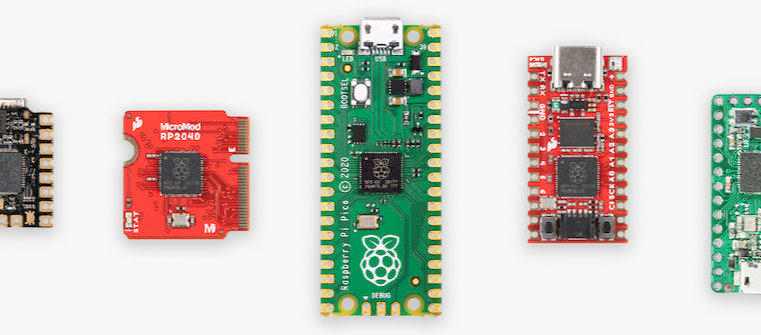
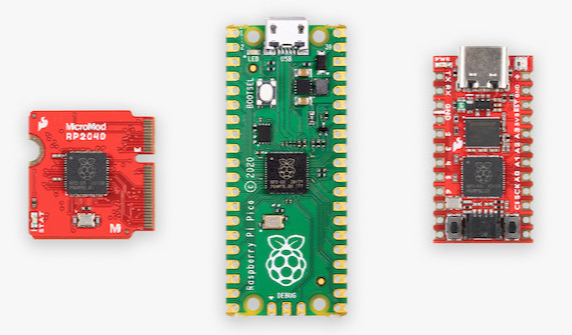
Added images to post & collected resources

diff --git a/_posts/2021-03-15-Getting-started-with-the-pi-pico.md b/_posts/2021-03-15-Getting-started-with-the-pi-pico.md
@@ -29,8 +29,8 @@ comments: true
 ## Introduction
 
 <div style="text-align: center; margin: 0px auto;">
-    <a href="{{ '/img/2021-03-15-getting-started-with-the-pi-pico/logo.jpg' | prepend: site.baseurl }}" data-lightbox="ui" data-title="Logo">
-        <img alt="Pi Pico Blueprint" src="{{ '/img/2021-03-15-getting-started-with-the-pi-pico/logo.jpg' | prepend: site.baseurl }}" class="image fit" style="margin:0px auto; width: 100%; display: inline-block;">
+    <a href="{{ '/img/2021-03-15-getting-started-with-the-pi-pico/pi-pico.jpg' | prepend: site.baseurl }}" data-lightbox="ui" data-title="Raspberry Pi Pico">
+        <img alt="Pi Pico Blueprint" src="{{ '/img/2021-03-15-getting-started-with-the-pi-pico/pi-pico.jpg' | prepend: site.baseurl }}" class="image fit" style="margin:0px auto; width: 60%; display: inline-block;">
     </a>
 </div>
 
@@ -47,7 +47,11 @@ It's cheap, it's powerful, and in this blog post we'll be exploring what it has 
 Like I said in the introduction, the regular Raspberry Pi is a single board computer, as in an actual computer which can run a fully fledged operating system.
 It also has interfacing options like a display and camera port, along side ethernet and USB ports as well as the 40 GPIO pins.
 
-TODO: PI vs PICO picture
+<div style="text-align: center; margin: 0px auto;">
+    <a href="{{ '/img/2021-03-15-getting-started-with-the-pi-pico/pi-vs-pico.jpg' | prepend: site.baseurl }}" data-lightbox="ui" data-title="Raspberry Pi Model 4 vs Raspberry Pi Pico">
+        <img alt="Pi Pico Blueprint" src="{{ '/img/2021-03-15-getting-started-with-the-pi-pico/pi-vs-pico.jpg' | prepend: site.baseurl }}" class="image fit" style="margin:0px auto; width: 100%; display: inline-block;">
+    </a>
+</div>
 
 As you can see in the pictures, the Raspberry Pi looks like a tiny computer and the Pico looks like a much simpler board, because it also is.
 Both devices serve different purposes but do have some overlap.
@@ -57,7 +61,11 @@ While they both have GPIO pins the ones on the Pi Pico are much more capable tha
 
 ## Getting to know the board
 
-TODO: PICO pinout picture
+<div style="text-align: center; margin: 0px auto;">
+    <a href="{{ '/img/2021-03-15-getting-started-with-the-pi-pico/pi-pico-pinout.svg' | prepend: site.baseurl }}" data-lightbox="ui" data-title="GPIO layout">
+        <img alt="Pi Pico Blueprint" src="{{ '/img/2021-03-15-getting-started-with-the-pi-pico/pi-pico-pinout.svg' | prepend: site.baseurl }}" class="image fit" style="margin:0px auto; width: 100%; display: inline-block;">
+    </a>
+</div>
 
 The main technical specifications of the Pi Pico are:
 
@@ -166,16 +174,25 @@ First of all we need to prepare the Pico to accept and run MicroPython files:
 The easiest way to do MicroPython development for the Pi Pico is by using the Thonny IDE.
 Thonny is a simple code editor that can directly save your code to the Pico and also provides an easy way to access the REPL.
 
-Setting up Thonny is very easy, just [download](https://thonny.org/) the binary for your operating system, install and start it.
+Setting up Thonny is very easy, just [download](https://thonny.org/){:target="_blank" rel="noopener noreferrer"} the binary for your operating system, install and start it.
 Only one more step is required to set it up for use with the Pi Pico.
 Head into the preferences, select the `interpreter` tab and from the dropdown select the option `MicroPython (Raspberry Pi Pico)`.
 Select the correct port from the dropdown.
 After this Thonny is ready to be used!
 
+<div style="text-align: center; margin: 0px auto;">
+    <a href="{{ '/img/2021-03-15-getting-started-with-the-pi-pico/thonny-interpreter.png' | prepend: site.baseurl }}" data-lightbox="ui" data-title="Thonny select interpreter">
+        <img alt="Pi Pico Blueprint" src="{{ '/img/2021-03-15-getting-started-with-the-pi-pico/thonny-interpreter.png' | prepend: site.baseurl }}" class="image fit" style="margin:0px auto; width: 45%; display: inline-block;">
+    </a>
+    <a href="{{ '/img/2021-03-15-getting-started-with-the-pi-pico/thonny-ports.png' | prepend: site.baseurl }}" data-lightbox="ui" data-title="Thonny select port">
+        <img alt="Pi Pico Blueprint" src="{{ '/img/2021-03-15-getting-started-with-the-pi-pico/thonny-ports.png' | prepend: site.baseurl }}" class="image fit" style="margin:0px auto; width: 45%; display: inline-block;">
+    </a>
+</div>
+
 Another option for development is using the great PyCharm IDE.
 While I view Thonny to be a glorified text editor, PyCharm (from JetBrains) is a fully fledged Python IDE, for our purposes the community edition will do just fine.
 The setup is a bit more involved and has some caveats, but it is certainly workable.
-[Download](https://www.jetbrains.com/pycharm/download/) and install the PyCharm Community Edition, once done, open it up and in the welcome screen select the plugin option.
+[Download](https://www.jetbrains.com/pycharm/download/){:target="_blank" rel="noopener noreferrer"} and install the PyCharm Community Edition, once done, open it up and in the welcome screen select the plugin option.
 In here search for `micropython` and install the MicroPython plugin by JetBrains, this will add support for flashing the device from within the IDE.
 Now we can create a new project and write some code.
 To upload the code to the Pico we need to perform some more changes and enable the MicroPython support for the newly created project.
@@ -191,6 +208,27 @@ Make sure you do not have the REPL open in the PyCharm terminal window, in contr
 If you have copied too many files or simply want to wipe the device, from the menu select: `tools/MicroPython/Remove All Files from MicroPython Device`.
 To open the REPL and directly interact with the Pico select the `tools/MicroPython/MicroPython REPL`, this will open up a REPL in a terminal window.
  
+<div style="text-align: center; margin: 0px auto;">
+    <a href="{{ '/img/2021-03-15-getting-started-with-the-pi-pico/pycharm-micropython-plugin.png' | prepend: site.baseurl }}" data-lightbox="ui" data-title="Install the MicroPython plugin">
+        <img alt="Pi Pico Blueprint" src="{{ '/img/2021-03-15-getting-started-with-the-pi-pico/pycharm-micropython-plugin.png' | prepend: site.baseurl }}" class="image fit" style="margin:0px auto; width: 15%; display: inline-block;">
+    </a>
+    <a href="{{ '/img/2021-03-15-getting-started-with-the-pi-pico/pycharm-micropython-setup.png' | prepend: site.baseurl }}" data-lightbox="ui" data-title="MicroPython project settings">
+        <img alt="Pi Pico Blueprint" src="{{ '/img/2021-03-15-getting-started-with-the-pi-pico/pycharm-micropython-setup.png' | prepend: site.baseurl }}" class="image fit" style="margin:0px auto; width: 15%; display: inline-block;">
+    </a>
+    <a href="{{ '/img/2021-03-15-getting-started-with-the-pi-pico/pycharm-flash-to-device.png' | prepend: site.baseurl }}" data-lightbox="ui" data-title="Flash main file to device">
+        <img alt="Pi Pico Blueprint" src="{{ '/img/2021-03-15-getting-started-with-the-pi-pico/pycharm-flash-to-device.png' | prepend: site.baseurl }}" class="image fit" style="margin:0px auto; width: 15%; display: inline-block;">
+    </a>
+    <a href="{{ '/img/2021-03-15-getting-started-with-the-pi-pico/pycharm-run-flash.png' | prepend: site.baseurl }}" data-lightbox="ui" data-title="Flash other files to device">
+        <img alt="Pi Pico Blueprint" src="{{ '/img/2021-03-15-getting-started-with-the-pi-pico/pycharm-run-flash.png' | prepend: site.baseurl }}" class="image fit" style="margin:0px auto; width: 15%; display: inline-block;">
+    </a>
+    <a href="{{ '/img/2021-03-15-getting-started-with-the-pi-pico/pycharm-run-flash-progress.png' | prepend: site.baseurl }}" data-lightbox="ui" data-title="Flashing progress">
+        <img alt="Pi Pico Blueprint" src="{{ '/img/2021-03-15-getting-started-with-the-pi-pico/pycharm-run-flash-progress.png' | prepend: site.baseurl }}" class="image fit" style="margin:0px auto; width: 15%; display: inline-block;">
+    </a>
+    <a href="{{ '/img/2021-03-15-getting-started-with-the-pi-pico/pycharm-tools.png' | prepend: site.baseurl }}" data-lightbox="ui" data-title="REPL and device wipe">
+        <img alt="Pi Pico Blueprint" src="{{ '/img/2021-03-15-getting-started-with-the-pi-pico/pycharm-tools.png' | prepend: site.baseurl }}" class="image fit" style="margin:0px auto; width: 15%; display: inline-block;">
+    </a>
+</div>
+
 ### Code example
 
 The basic code for a LED blink example is listed below.
@@ -211,7 +249,7 @@ while True:
 
 This code does the same as the C++ code mentioned above.
 It however is far more readable.
-The [MicroPython documentation](https://docs.micropython.org/en/latest/) has examples and information on what is available and what is not.
+The [MicroPython documentation](https://docs.micropython.org/en/latest/){:target="_blank" rel="noopener noreferrer"} has examples and information on what is available and what is not.
 Please be reminded that MicroPython support for the Pi Pico is still very new and some APIs may contain bugs, not work at all or even not be available yet.
 
 ## CircuitPython development
@@ -232,7 +270,7 @@ First of all we need to prepare the Pico to accept and run CircuitPython files:
 
 CircuitPython can also be developed using Thonny, you however need to open the Thonny preferences once more, select the interpreter tab and select the `CircuitPython (generic)` option.
 Using PyCharm for CircuitPython can be done, however I've not had many success to flash the files to the Pico device, so for CircuitPython the best option remains Thonny.
-Adafruit recommends using the [Mu](https://learn.adafruit.com/welcome-to-circuitpython/installing-mu-editor) IDE for CircuitPython development, however I could never get it to work on my Big Sur installation.
+Adafruit recommends using the [Mu](https://learn.adafruit.com/welcome-to-circuitpython/installing-mu-editor){:target="_blank" rel="noopener noreferrer"} IDE for CircuitPython development, however I could never get it to work on my Big Sur installation.
 
 Developing CircuitPython does not really differ from MicroPython except for two things:
 
@@ -240,7 +278,7 @@ Developing CircuitPython does not really differ from MicroPython except for two 
 - Project structure
   - No main.py but a boot.py and code.py file to do bootstrapping and have a main entry point for code execution
 
-Further in depth information on how to get started with CircuitPython development can be found on [their excellent website](https://learn.adafruit.com/welcome-to-circuitpython/overview) as we will be focussing on MicroPython in future projects.
+Further in depth information on how to get started with CircuitPython development can be found on [their excellent website](https://learn.adafruit.com/welcome-to-circuitpython/overview){:target="_blank" rel="noopener noreferrer"} as we will be focussing on MicroPython in future projects.
 
 ### Code example
 
@@ -264,7 +302,7 @@ while True:
 
 Again this code does the same as the C++ code mentioned above.
 It is also more readable, but differs slightly from the MicroPython flavour of Python.
-The [CircuitPython documentation](https://circuitpython.readthedocs.io/en/6.1.x/README.html) has examples and information on what is available and what is not.
+The [CircuitPython documentation](https://circuitpython.readthedocs.io/en/6.1.x/README.html){:target="_blank" rel="noopener noreferrer"} has examples and information on what is available and what is not.
 Please be reminded that CircuitPython support for the Pi Pico is still very new and some APIs may contain bugs, not work at all or even not be available yet.
 
 Another thing to note is that the CircuitPython implementation has some additional pros and cons:
@@ -282,4 +320,16 @@ It allows for faster prototyping without having to deal with C/C++ per se.
 
 ## Resources
 
-[Pi Pico Getting started](https://www.raspberrypi.org/documentation/rp2040/getting-started/#getting-started-with-micropython){:target="_blank" rel="noopener noreferrer"}
+- [Pi Pico Getting started](https://www.raspberrypi.org/documentation/rp2040/getting-started/#getting-started-with-micropython){:target="_blank" rel="noopener noreferrer"}
+- [General C/C++ SDK documentation](https://datasheets.raspberrypi.org/pico/raspberry-pi-pico-c-sdk.pdf){:target="_blank" rel="noopener noreferrer"}
+- [C++ setup Linux](https://raw.githubusercontent.com/raspberrypi/pico-setup/master/pico_setup.sh){:target="_blank" rel="noopener noreferrer"}
+- [C++ setup Mac](https://smittytone.wordpress.com/2021/02/02/program-raspberry-pi-pico-c-mac/){:target="_blank" rel="noopener noreferrer"}
+- [C++ setup Windows](https://github.com/ndabas/pico-setup-windows){:target="_blank" rel="noopener noreferrer"}
+- [Getting started with MicroPython](https://www.raspberrypi.org/documentation/rp2040/getting-started/#getting-started-with-micropython){:target="_blank" rel="noopener noreferrer"}
+- [Thonny IDE](https://thonny.org/){:target="_blank" rel="noopener noreferrer"}
+- [PyCharm](https://www.jetbrains.com/pycharm/download/){:target="_blank" rel="noopener noreferrer"}
+- [MicroPython documentation](https://docs.micropython.org/en/latest/){:target="_blank" rel="noopener noreferrer"}
+- [CircuitPython download](https://circuitpython.org/board/raspberry_pi_pico/){:target="_blank" rel="noopener noreferrer"}
+- [Mu IDE](https://learn.adafruit.com/welcome-to-circuitpython/installing-mu-editor){:target="_blank" rel="noopener noreferrer"}
+- [Getting started with CircuitPython](https://learn.adafruit.com/welcome-to-circuitpython/overview){:target="_blank" rel="noopener noreferrer"}
+- [CircuitPython documentation](https://circuitpython.readthedocs.io/en/6.1.x/README.html){:target="_blank" rel="noopener noreferrer"}
